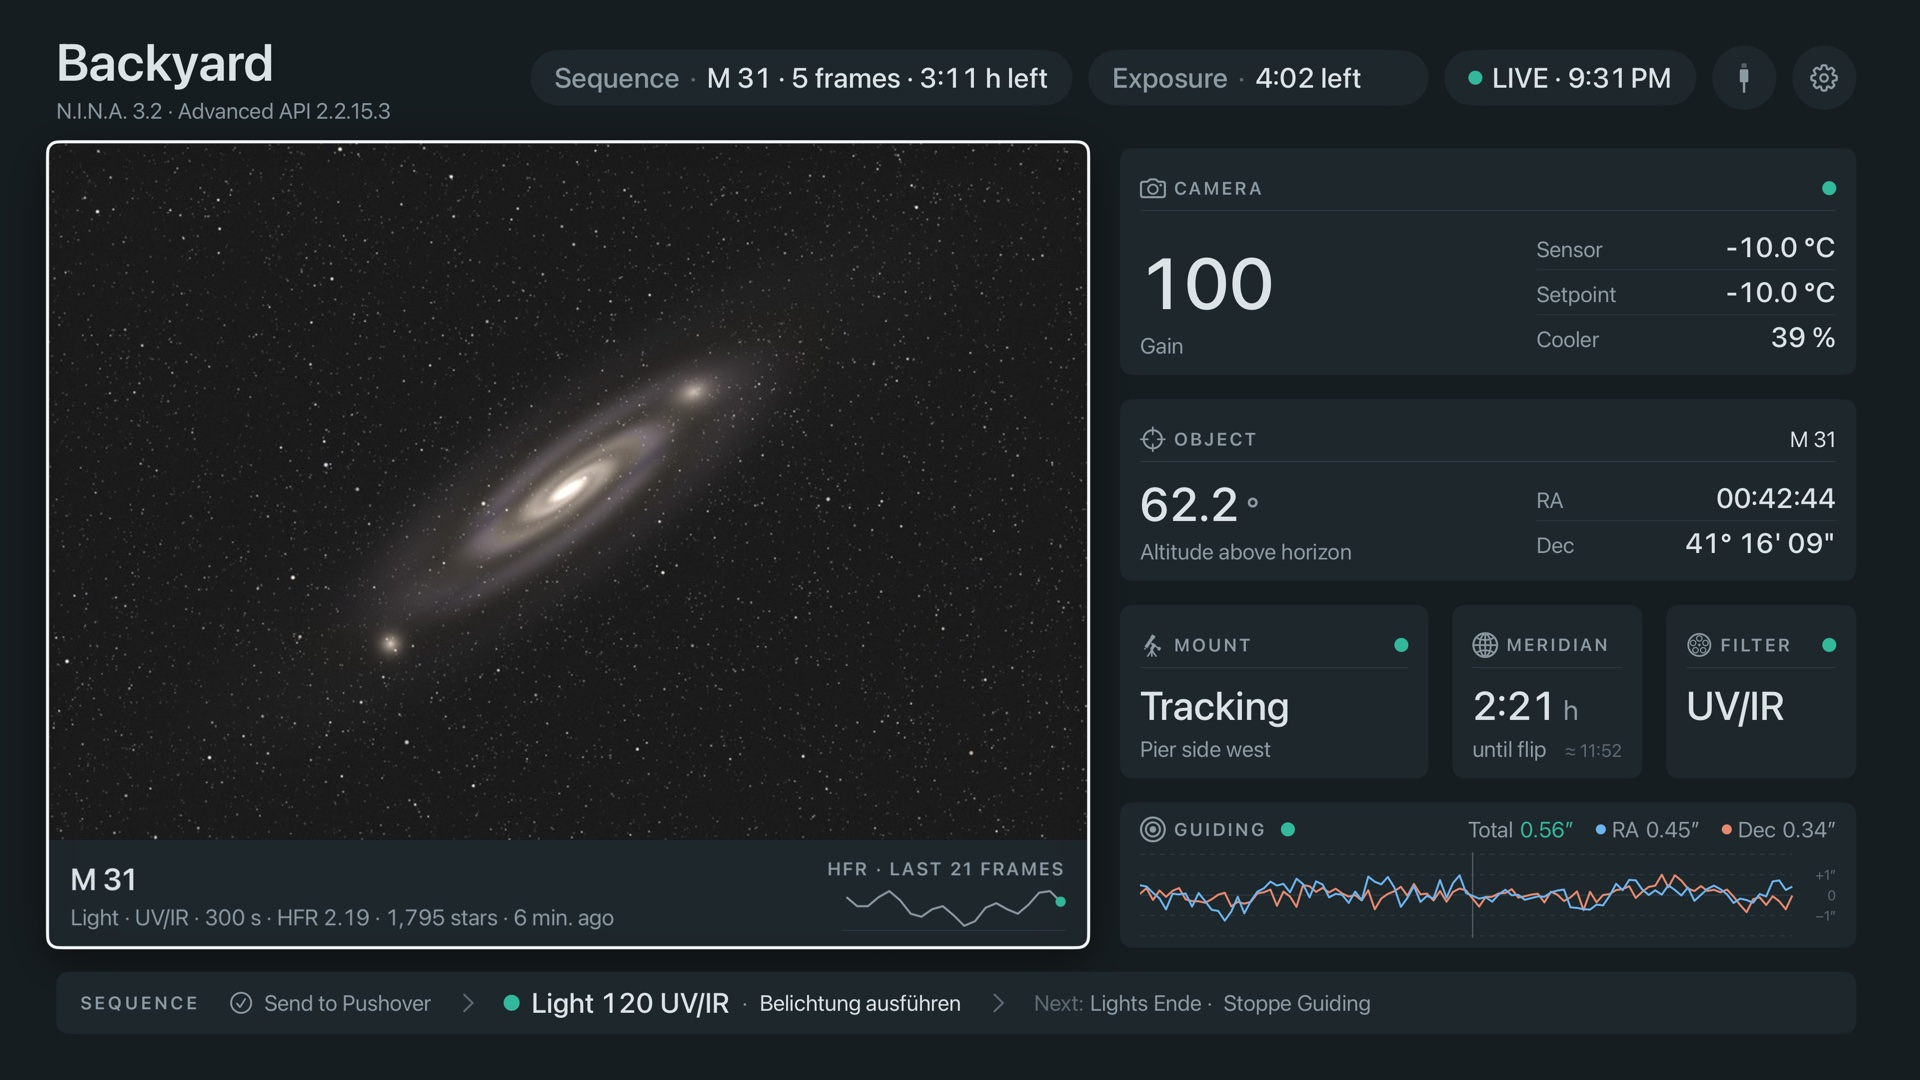
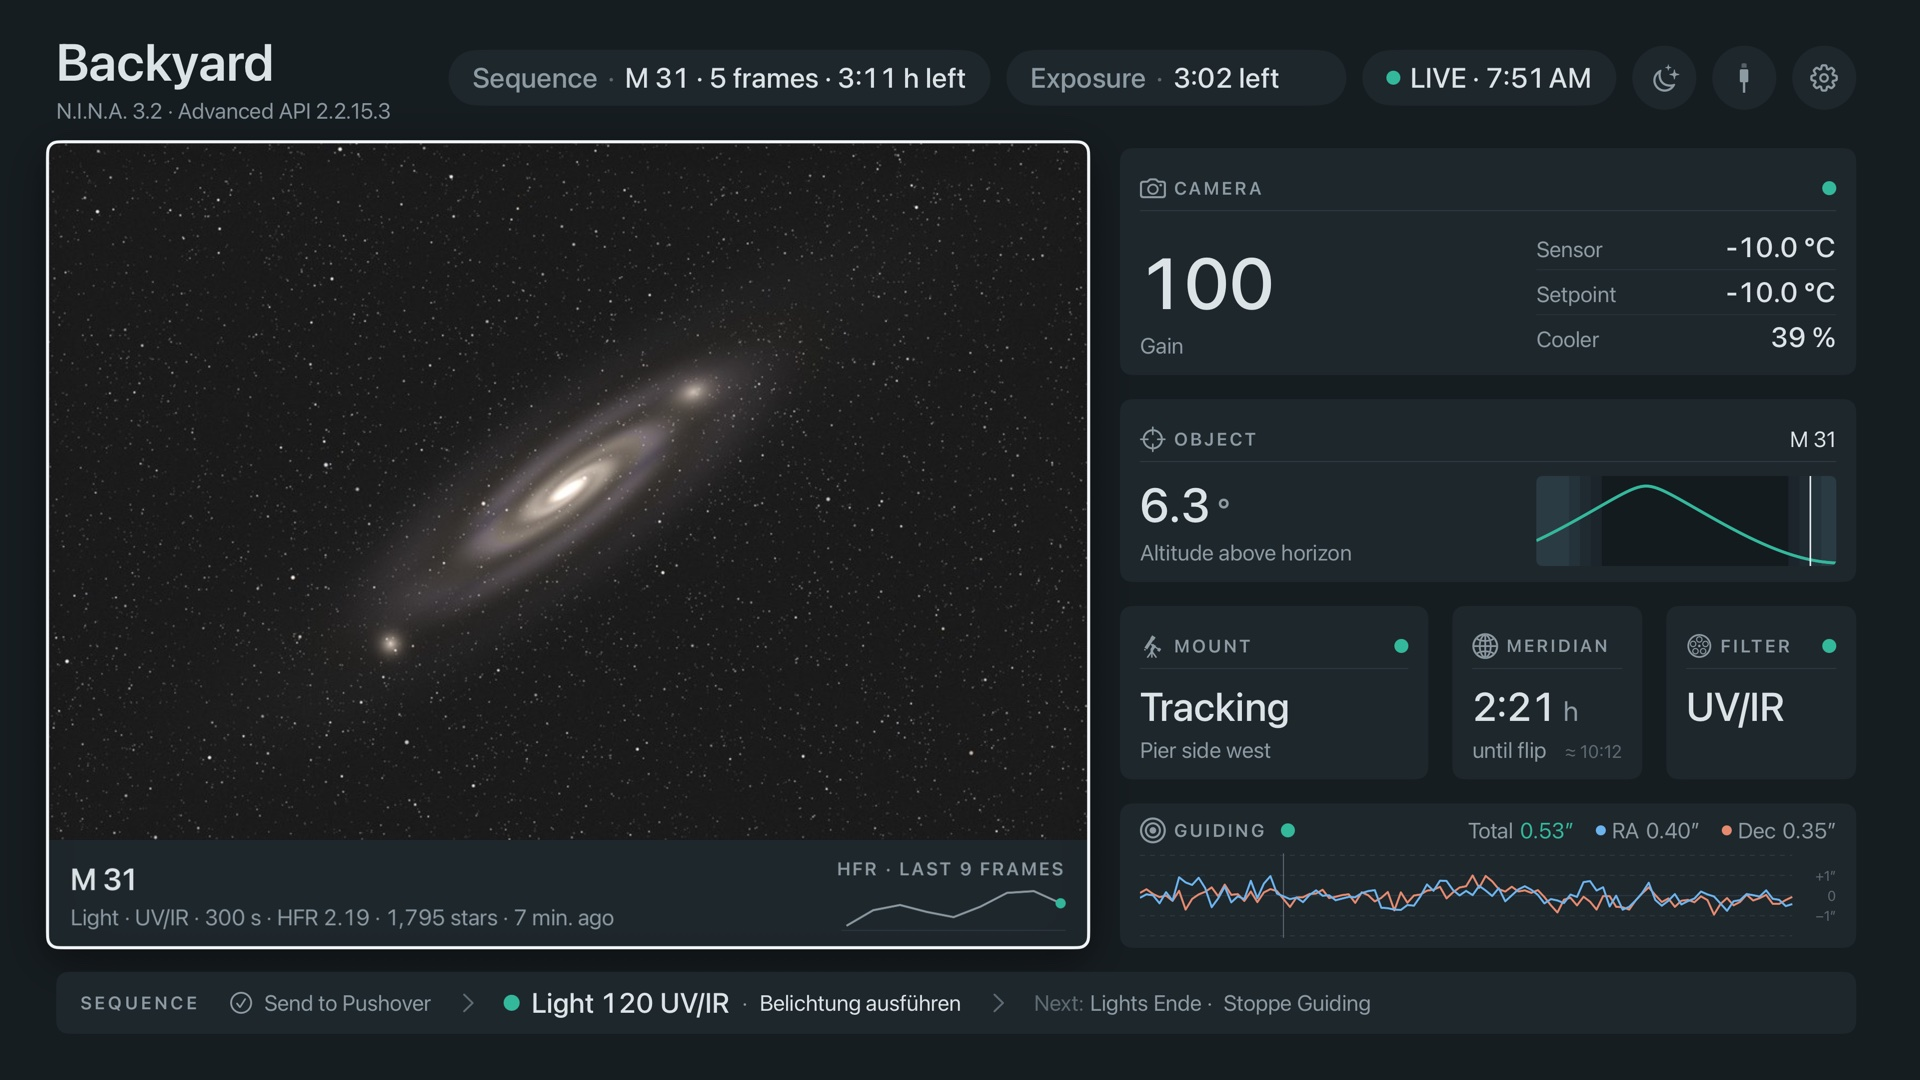
Object module opens the night: target, computed altitude, mini curve; build 7
Meridian label flips to the left of the line when it would clip.

Claude-Session: https://claude.ai/code/session_018pUwQWsnrgoakVNdTaya8P

diff --git a/App/Views/DashboardView.swift b/App/Views/DashboardView.swift
@@ -226,7 +226,9 @@ struct DashboardView: View {
 
             VStack(spacing: Theme.moduleGap) {
                 CameraModule(camera: equipment?.camera, light: StatusLight.camera(equipment?.camera, phase: phase, now: now))
-                ObjectModule(target: connection.latestImage?.targetName, mount: equipment?.mount)
+                NavigationLink(value: Destination.night) { ObjectModule(night: model.night) }
+                    .buttonStyle(LiftButtonStyle(scale: 1.01))
+                    .accessibilityLabel(Text("Night"))
                 HStack(alignment: .top, spacing: Theme.moduleGap) {
                     MountTile(mount: equipment?.mount, light: StatusLight.device(equipment?.mount?.device, phase: phase))
                         .frame(maxWidth: .infinity).frame(maxHeight: .infinity, alignment: .top)
@@ -286,18 +288,23 @@ struct CameraModule: View {
 }
 
 struct ObjectModule: View {
-    let target: String?
-    let mount: NINAEquipmentSummary.Mount?
+    let night: NightModel?
 
     var body: some View {
-        ModulePanel("Object", icon: Image(systemName: "scope"), light: nil, accessory: target) {
-            HStack(alignment: .bottom) {
-                KeyFigure(mount?.trackedObjectAltitude.map(Format.degrees), unit: "°", label: "Altitude above horizon")
-                Spacer(minLength: 24)
-                SideValues([
-                    ("RA", mount?.trackedRightAscension),
-                    ("Dec", mount?.trackedDeclination),
-                ])
+        ModulePanel("Object", icon: Image(systemName: "scope"), light: nil, accessory: night?.plan?.target?.name) {
+            HStack(alignment: .bottom, spacing: 24) {
+                if night?.plan == nil {
+                    KeyFigure(nil, unit: "°", label: "Site unknown")
+                } else {
+                    KeyFigure(night?.now?.target.map { Format.degrees($0.altitude) }, unit: "°", label: "Altitude above horizon")
+                        .opacity(night?.targetIsStale == true ? 0.55 : 1)
+                }
+                Spacer(minLength: 0)
+                if let plan = night?.plan, plan.targetCurve != nil {
+                    AltitudeChart(plan: plan, now: Date(), style: .mini)
+                        .frame(width: 300, height: 90)
+                        .clipShape(.rect(cornerRadius: 6))
+                }
             }
         }
     }

diff --git a/App/Views/AltitudeChart.swift b/App/Views/AltitudeChart.swift
@@ -60,8 +60,14 @@ struct AltitudeChart: View {
                     meridian.move(to: CGPoint(x: x(transit), y: plot.minY + 28))
                     meridian.addLine(to: CGPoint(x: x(transit), y: plot.maxY))
                     context.stroke(meridian, with: .color(Theme.text3), style: StrokeStyle(lineWidth: 1.5, dash: [3, 6]))
-                    context.draw(Text("Meridian \(transit.formatted(date: .omitted, time: .shortened))").font(.pgLabel).foregroundStyle(Theme.text3),
-                                 at: CGPoint(x: x(transit) + 8, y: plot.minY + 14), anchor: .leading)
+                    let label = context.resolve(Text("Meridian \(transit.formatted(date: .omitted, time: .shortened))").font(.pgLabel).foregroundStyle(Theme.text3))
+                    let width = label.measure(in: size).width
+                    // Right of the line, or left of it when it would run past the chart's edge.
+                    if x(transit) + 8 + width <= plot.maxX {
+                        context.draw(label, at: CGPoint(x: x(transit) + 8, y: plot.minY + 14), anchor: .leading)
+                    } else {
+                        context.draw(label, at: CGPoint(x: x(transit) - 8, y: plot.minY + 14), anchor: .trailing)
+                    }
                 }
                 // Moon: dashed, only above the horizon.
                 var moon = Path()

diff --git a/Packages/PanGalacticCore/Tests/PanGalacticCoreTests/DashboardDerivationTests.swift b/Packages/PanGalacticCore/Tests/PanGalacticCoreTests/DashboardDerivationTests.swift
@@ -27,18 +27,6 @@ struct DashboardDerivationTests {
         #expect(try summary(#"{"Mount":{"Connected":false,"TrackingEnabled":true}}"#).mount?.activity == .unknown)
     }
 
-    @Test func objectAltitudeOnlyWhileTracking() throws {
-        let tracking = try #require(try summary(#"{"Mount":{"Connected":true,"TrackingEnabled":true,"AtPark":false,"Altitude":38.4,"RightAscensionString":"05:35:17","DeclinationString":"-05° 23' 28\""}}"#).mount)
-        #expect(tracking.trackedObjectAltitude == 38.4)
-        #expect(tracking.trackedRightAscension == "05:35:17")
-        #expect(tracking.trackedDeclination == #"-05° 23' 28""#)
-
-        let parked = try #require(try summary(#"{"Mount":{"Connected":true,"TrackingEnabled":false,"AtPark":true,"Altitude":52.3,"RightAscensionString":"04:41:15"}}"#).mount)
-        #expect(parked.trackedObjectAltitude == nil, "parked altitude is the park position, not the object's")
-        #expect(parked.trackedRightAscension == nil)
-        #expect(parked.altitudeDegrees == 52.3, "raw pointing value stays available for the Mount page")
-    }
-
     @Test func statusLights() throws {
         let connected = NINAEquipmentSummary.Device(connected: true, name: "X")
         let disconnected = NINAEquipmentSummary.Device(connected: false, name: "X")

diff --git a/Packages/PanGalacticCore/Sources/PanGalacticCore/NINA/MountActivity.swift b/Packages/PanGalacticCore/Sources/PanGalacticCore/NINA/MountActivity.swift
@@ -16,11 +16,4 @@ extension NINAEquipmentSummary.Mount {
         case nil: return .unknown
         }
     }
-
-    /// N.I.N.A. reports where the mount points. That is the imaged object's position
-    /// only while the mount tracks; parked or slewing values must not be shown as the
-    /// object's. From M4 the object's altitude is computed from its coordinates instead.
-    public var trackedObjectAltitude: Double? { activity == .tracking ? altitudeDegrees : nil }
-    public var trackedRightAscension: String? { activity == .tracking ? rightAscension : nil }
-    public var trackedDeclination: String? { activity == .tracking ? declination : nil }
 }

diff --git a/tools/demo/demo_server.py b/tools/demo/demo_server.py
@@ -162,6 +162,9 @@ def guide_graph(now: datetime) -> dict:
 def sequence(name: str, now: datetime):
     """The running fixture, aimed at M 31 and ending a few hours from now."""
     text = (FIXTURES / name).read_text(encoding="utf-8").replace("Coma Cluster", TARGET)
+    # M 31's coordinates in place of the Coma Cluster's, so the altitude curve fits the demo site.
+    text = re.sub(r'"RAHours": 12,(\s*)"RAMinutes": 59,(\s*)"RASeconds": 48.7', r'"RAHours": 0,\1"RAMinutes": 42,\2"RASeconds": 44.0', text)
+    text = re.sub(r'"DecDegrees": 27,(\s*)"DecMinutes": 58,(\s*)"DecSeconds": 50.00002', r'"DecDegrees": 41,\1"DecMinutes": 16,\2"DecSeconds": 7.0', text)
     loop_end = iso(now.replace(microsecond=0) + timedelta(hours=3, minutes=12))
     text = re.sub(r'"TargetTime": "2026-11-16T05:00:[^"]*"', f'"TargetTime": "{loop_end}"', text)
     return json.loads(text)
